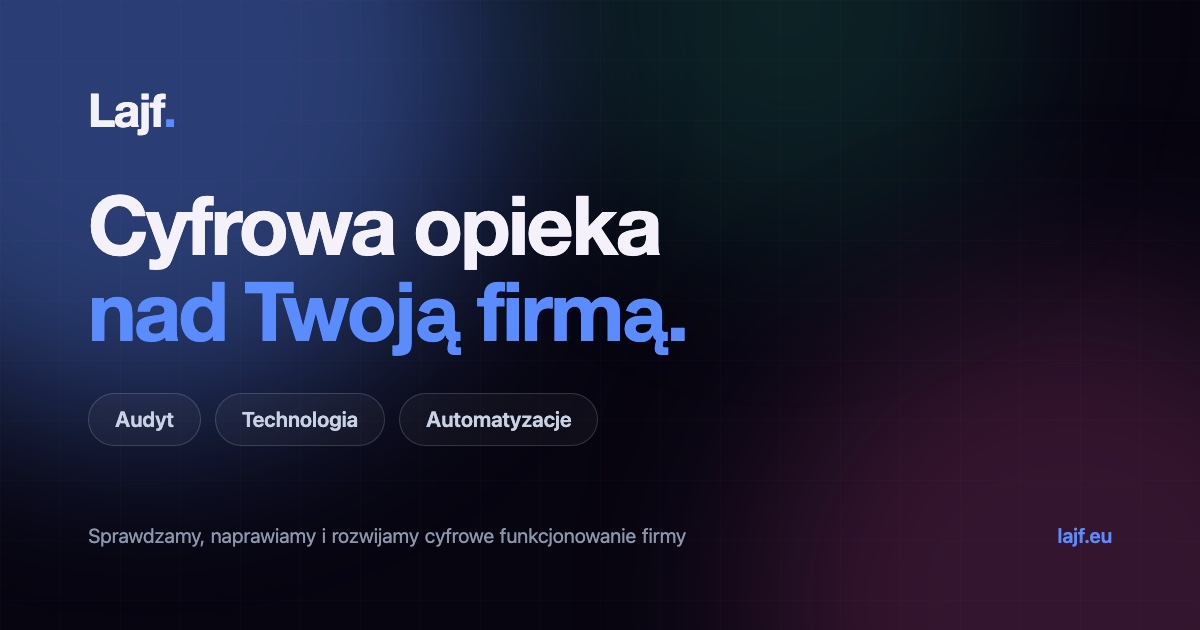
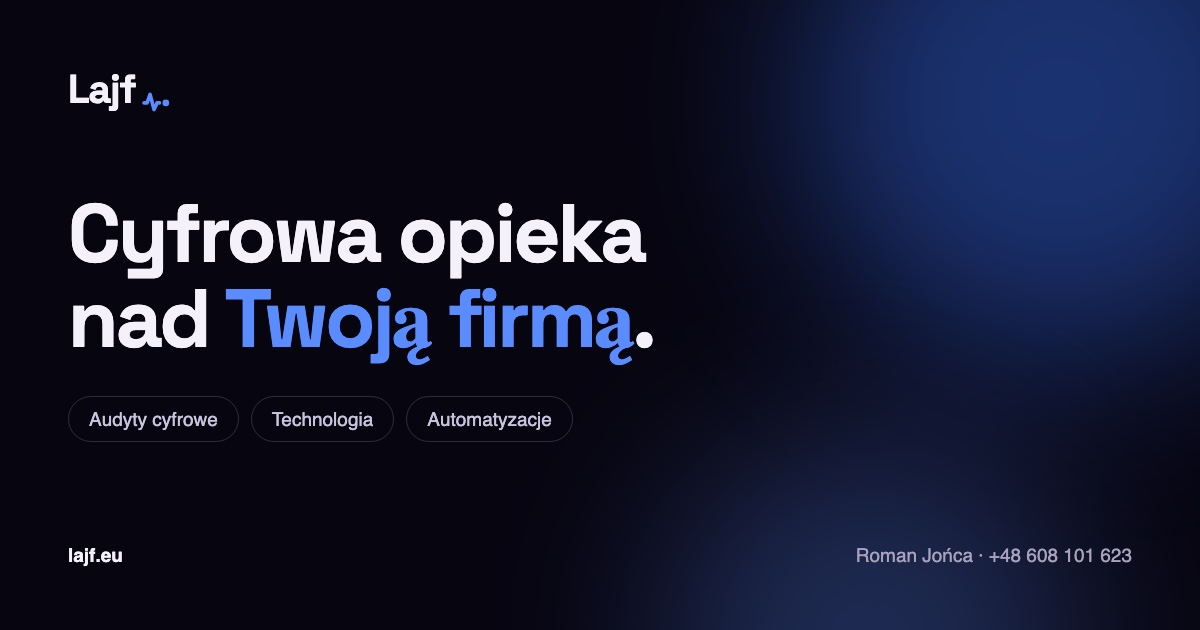
Znak z pulsem w nagłówku, stopce, OG i ikonach
Nagłówek i stopka strony miały napis „Lajf" z kropką jako tekst — teraz kropka
jest końcem linii pulsu, czyli tym samym znakiem, co w identyfikacji. Puls
dziedziczy kolor akcentu, więc działa też przy zmianie motywu.

OG image niósł stare pozycjonowanie („Pełna obecność firmy w sieci") i tagi
sprzed zmiany kierunku. To była ostatnia rzecz, którą widział każdy, komu Roman
podaje link przez telefon. Nowa grafika mówi „Cyfrowa opieka nad Twoją firmą"
i wymienia audyty, technologię i automatyzacje.

Ikony aplikacji, favicon.ico i logo do maili odtworzone ze znaku.

Claude-Session: https://claude.ai/code/session_016VoEDjAiQ5o3F5Tbd88diX

diff --git a/marketing/identyfikacja/zrodla/og.html b/marketing/identyfikacja/zrodla/og.html
@@ -1,0 +1,27 @@
+<!doctype html><html lang="pl"><head><meta charset="utf-8"><style>
+@font-face{font-family:'Space Grotesk';src:url('space-grotesk-latin-wght-normal.woff2') format('woff2');font-weight:300 700}
+@font-face{font-family:'Inter';src:url('inter-latin-wght-normal.woff2') format('woff2');font-weight:100 900}
+*{margin:0;padding:0;box-sizing:border-box}
+html,body{width:1200px;height:630px;overflow:hidden}
+body{background:#070510;position:relative;padding:64px 68px;display:flex;flex-direction:column;justify-content:space-between;font-family:'Inter',sans-serif}
+.poswiata{position:absolute;border-radius:50%;filter:blur(90px);opacity:.5}
+.p1{width:520px;height:520px;background:#2f5fd0;right:-120px;top:-160px}
+.p2{width:420px;height:420px;background:#5b8cff;right:120px;bottom:-220px;opacity:.28}
+.tresc{position:relative;z-index:1}
+.logo{display:inline-flex;align-items:baseline;font-family:'Space Grotesk';font-weight:700;font-size:40px;letter-spacing:-.035em;color:#f4f1fb}
+.logo svg{height:20px;width:auto;margin-left:6px;transform:translateY(9px)}
+h1{font-family:'Space Grotesk';font-weight:700;font-size:82px;line-height:1.04;letter-spacing:-.035em;color:#f4f1fb;margin-top:76px;max-width:940px}
+h1 span{color:#5b8cff}
+.tagi{display:flex;gap:12px;margin-top:34px}
+.tagi span{padding:11px 20px;border:1px solid rgba(255,255,255,.16);border-radius:999px;color:#c9c4dd;font-size:19px}
+.stopka{position:relative;z-index:1;display:flex;align-items:center;justify-content:space-between;color:#a8a2bd;font-size:19px}
+.stopka b{color:#f4f1fb;font-weight:600}
+</style></head><body>
+<div class="poswiata p1"></div><div class="poswiata p2"></div>
+<div class="tresc">
+  <span class="logo">Lajf<svg viewBox="45 36 50 33"><path d="M50 54 h5 l5 -14 l6.5 25 l5 -11 h4" fill="none" stroke="#5b8cff" stroke-width="6" stroke-linecap="round" stroke-linejoin="round"/><circle cx="86" cy="54" r="5.5" fill="#5b8cff"/></svg></span>
+  <h1>Cyfrowa opieka<br>nad <span>Twoją firmą</span>.</h1>
+  <div class="tagi"><span>Audyty cyfrowe</span><span>Technologia</span><span>Automatyzacje</span></div>
+</div>
+<div class="stopka"><b>lajf.eu</b><span>Roman Jońca · +48 608 101 623</span></div>
+</body></html>

diff --git a/src/styles/lajf-kinetic.css b/src/styles/lajf-kinetic.css
@@ -38,7 +38,7 @@ a{color:inherit;text-decoration:none}
 /* nawigacja */
 nav{position:sticky;top:0;z-index:40;backdrop-filter:blur(18px);background:rgba(7,5,16,.5);border-bottom:1px solid var(--line)}
 .nav-in{display:flex;align-items:center;justify-content:space-between;height:70px}
-.logo{font-family:'Space Grotesk Variable','Space Grotesk',sans-serif;font-weight:700;font-size:24px}.logo b{color:var(--acc)}
+.logo{font-family:'Space Grotesk Variable','Space Grotesk',sans-serif;font-weight:700;font-size:24px;letter-spacing:-.035em;display:inline-flex;align-items:baseline}.logo b{color:var(--acc);display:inline-flex}/* Puls i kropka w jednym rysunku: odstep miedzy nimi jest czescia znaku. */.logo-puls{height:.5em;width:auto;margin-left:.14em;transform:translateY(.06em)}
 .nav-links{display:flex;gap:28px;font-size:14px;color:var(--mut)}.nav-links a{position:relative}
 .nav-links a::after{content:"";position:absolute;left:0;bottom:-6px;height:2px;width:0;background:var(--acc);transition:width .25s}
 .nav-links a:hover{color:var(--txt)}.nav-links a:hover::after{width:100%}

diff --git a/marketing/identyfikacja/zrodla/logo-mail.html b/marketing/identyfikacja/zrodla/logo-mail.html
@@ -1,0 +1,12 @@
+<!doctype html><html><head><meta charset="utf-8"><style>
+@font-face{font-family:'Space Grotesk';src:url('space-grotesk-latin-wght-normal.woff2') format('woff2');font-weight:300 700}
+*{margin:0;padding:0;box-sizing:border-box}
+html,body{width:640px;height:200px;overflow:hidden;background:transparent}
+body{display:grid;place-items:center}
+.lockup{display:flex;align-items:baseline}
+.wm{font-family:'Space Grotesk';font-weight:700;font-size:120px;letter-spacing:-.035em;line-height:1;color:#f4f1fb}
+svg{height:60px;width:auto;flex:none;margin-left:14px;transform:translateY(27px)}
+</style></head><body>
+<div class="lockup"><div class="wm">Lajf</div>
+<svg viewBox="45 36 50 33" xmlns="http://www.w3.org/2000/svg"><path d="M50 54 h5 l5 -14 l6.5 25 l5 -11 h4" fill="none" stroke="#5b8cff" stroke-width="6" stroke-linecap="round" stroke-linejoin="round"/><circle cx="86" cy="54" r="5.5" fill="#5b8cff"/></svg>
+</div></body></html>
